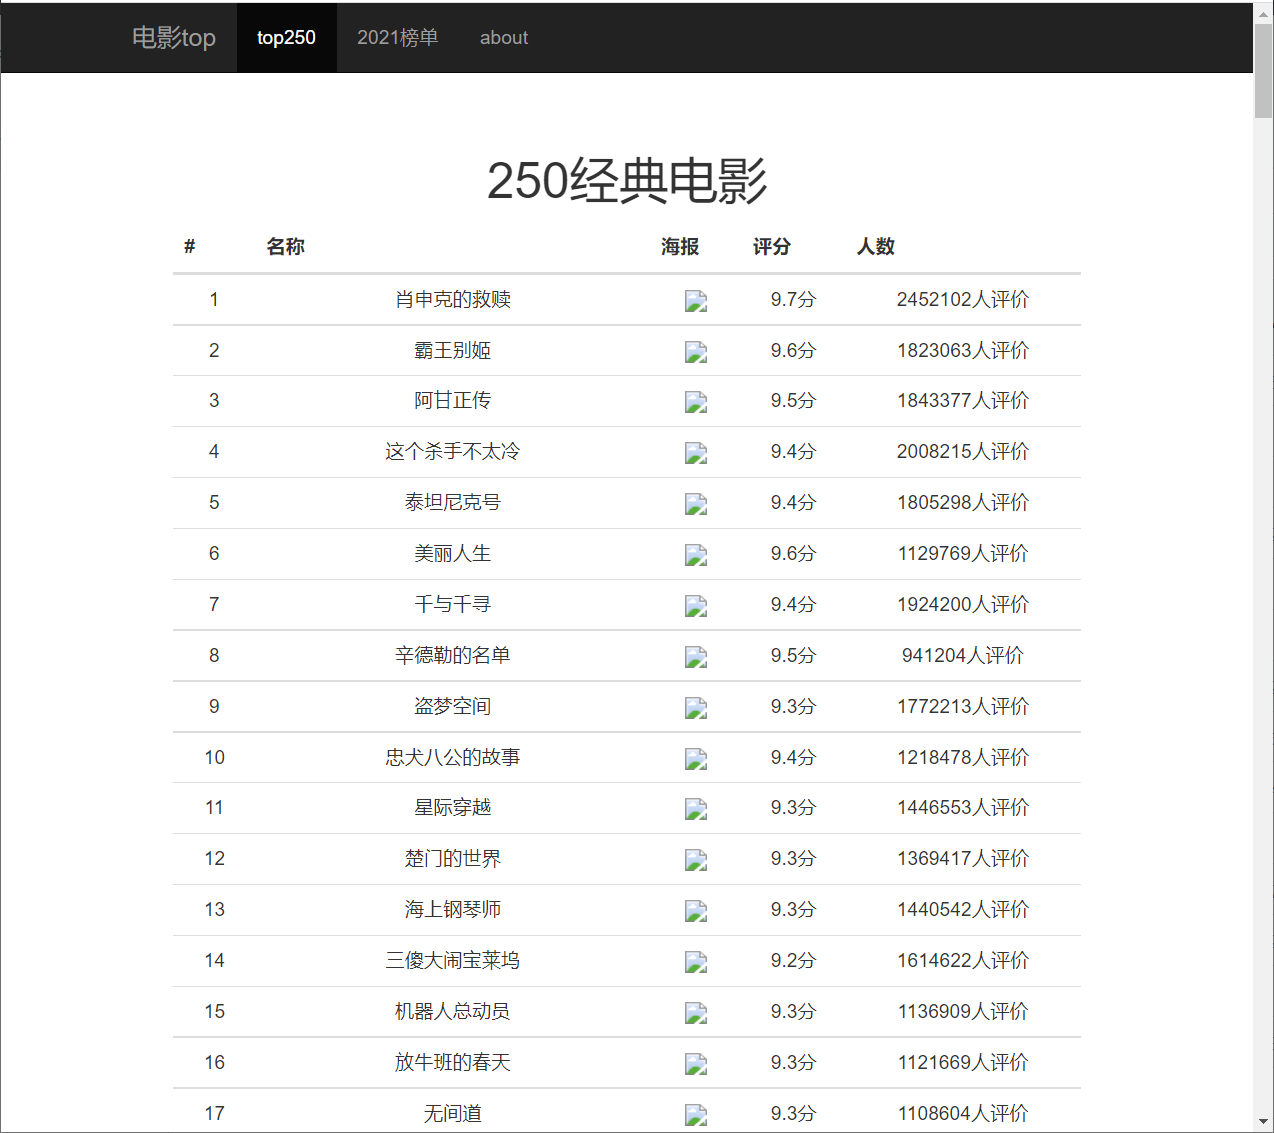
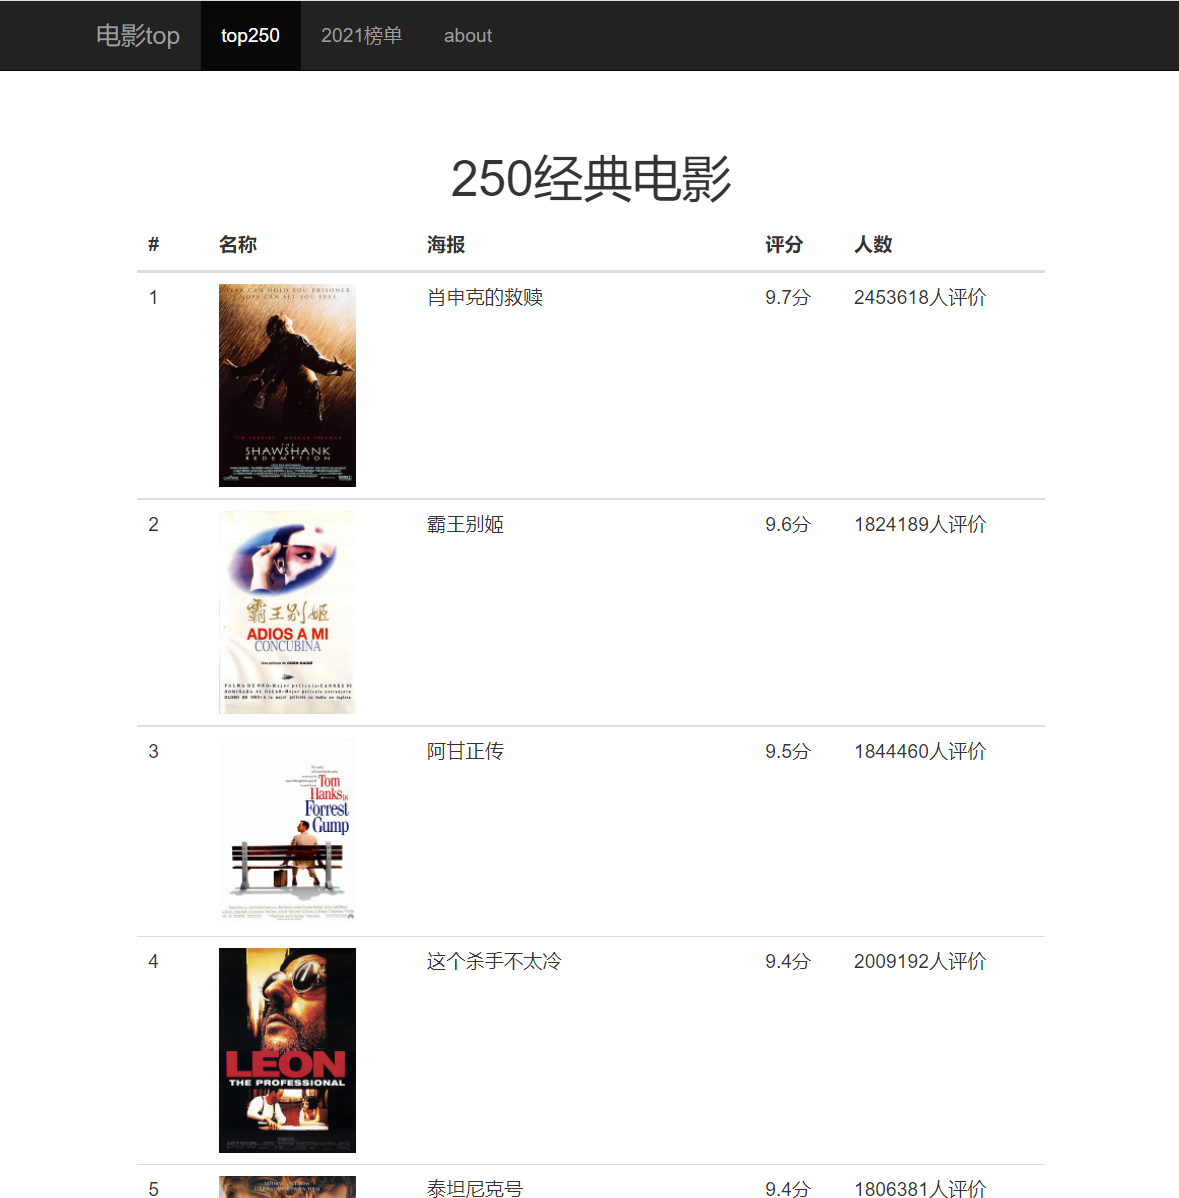
feat: 优化页面

diff --git a/templates/hello.html b/templates/hello.html
@@ -1,4 +1,3 @@
-
 <!doctype html>
 <html lang="zh-CN">
   <head>
@@ -11,7 +10,7 @@
     <link rel="icon" href="https://cdn.jsdelivr.net/npm/@bootcss/v3.bootcss.com@1.0.16/favicon.ico">
     <link rel="canonical" href="https://getbootstrap.com/docs/3.4/examples/starter-template/">
 
-    <title>Starter Template for Bootstrap</title>
+    <title>电影top</title>
 
     <!-- Bootstrap core CSS -->
     <link href="https://cdn.jsdelivr.net/npm/@bootcss/v3.bootcss.com@1.0.16/dist/css/bootstrap.min.css" rel="stylesheet">
@@ -22,15 +21,6 @@
     <!-- Custom styles for this template -->
     <link href="https://cdn.jsdelivr.net/npm/@bootcss/v3.bootcss.com@1.0.16/examples/starter-template/starter-template.css" rel="stylesheet">
 
-    <!-- Just for debugging purposes. Don't actually copy these 2 lines! -->
-    <!--[if lt IE 9]><script src="https://cdn.jsdelivr.net/npm/@bootcss/v3.bootcss.com@1.0.16/assets/js/ie8-responsive-file-warning.js"></script><![endif]-->
-    <script src="https://cdn.jsdelivr.net/npm/@bootcss/v3.bootcss.com@1.0.16/assets/js/ie-emulation-modes-warning.js"></script>
-
-    <!-- HTML5 shim and Respond.js for IE8 support of HTML5 elements and media queries -->
-    <!--[if lt IE 9]>
-      <script src="https://oss.maxcdn.com/html5shiv/3.7.3/html5shiv.min.js"></script>
-      <script src="https://oss.maxcdn.com/respond/1.4.2/respond.min.js"></script>
-    <![endif]-->
   </head>
 
   <body>
@@ -75,8 +65,10 @@
             {% for move in moves %}
                 <tr>
                     <td>{{ move[0] }}</td>
+                    <td>
+                      <img width="100" src="/static/images/{{move[2]}}">
+                    </td>
                     <td>{{ move[1] }}</td>
-                    <td> <img width="100" src="/static/images/{{move[2]}}"> </td>
                     <td>{{ move[3] }}分</td>
                     <td>{{ move[4] }}人评价</td>
                 </tr>
@@ -87,7 +79,11 @@
       </div>
 
     </div><!-- /.container -->
-
+    <style>
+      td {
+        text-align: left;
+      }
+    </style>
 
     <!-- Bootstrap core JavaScript
     ================================================== -->
